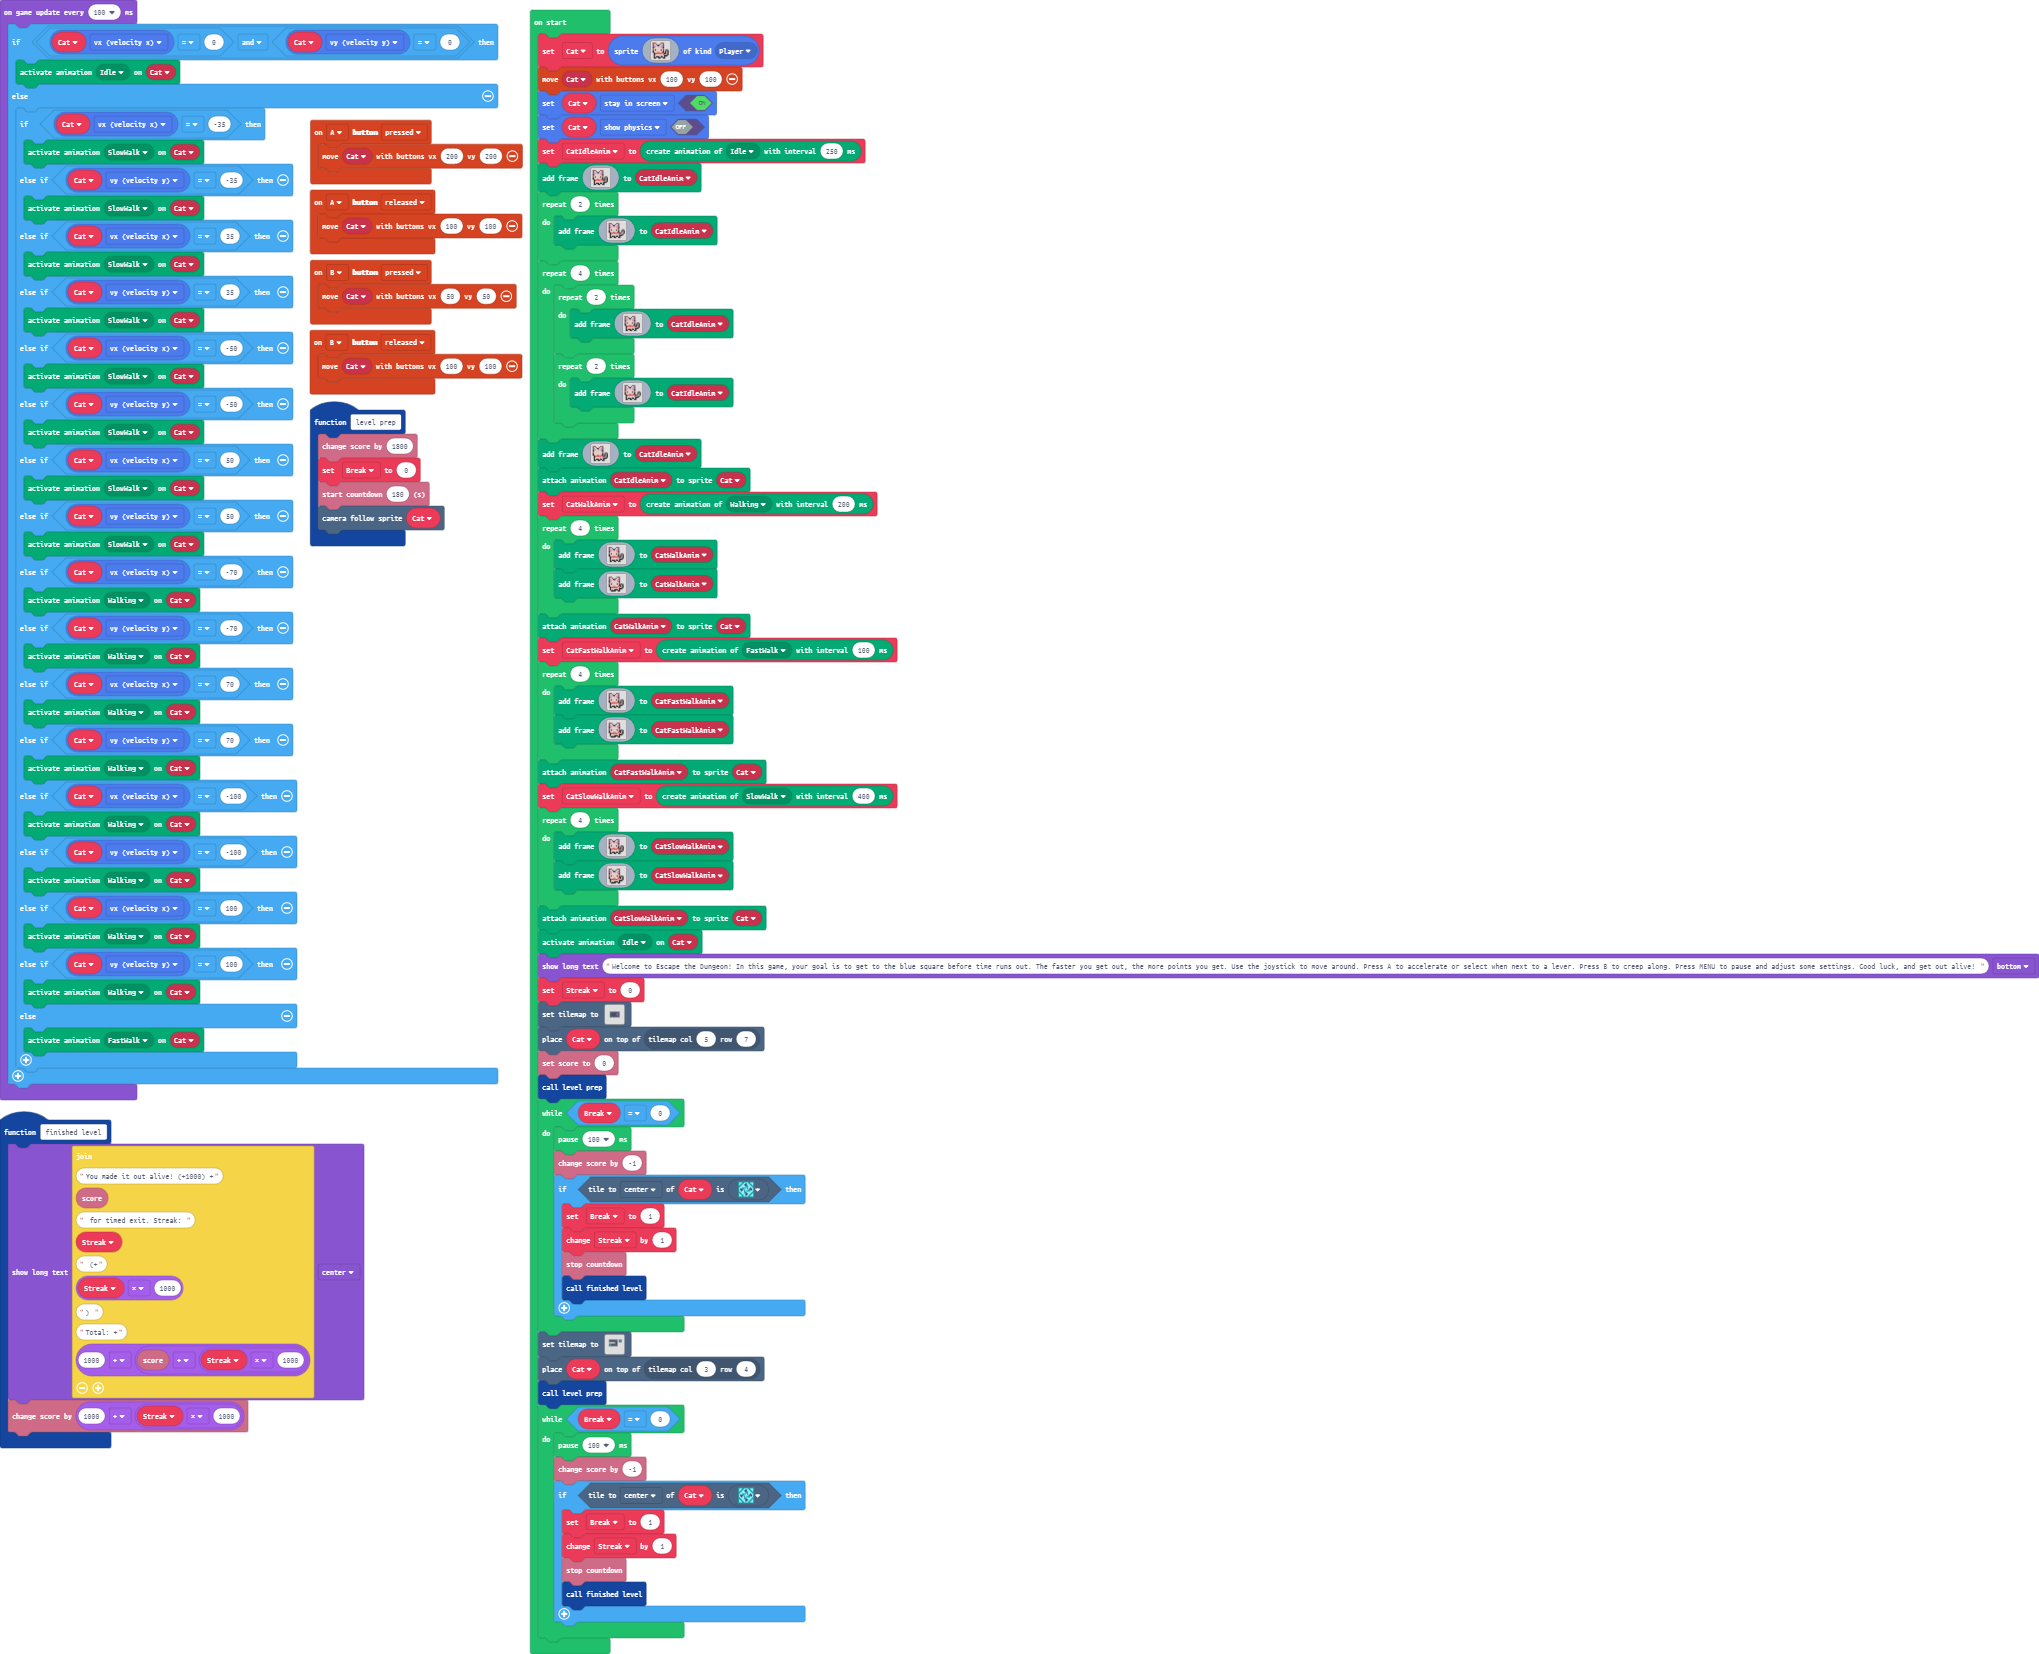
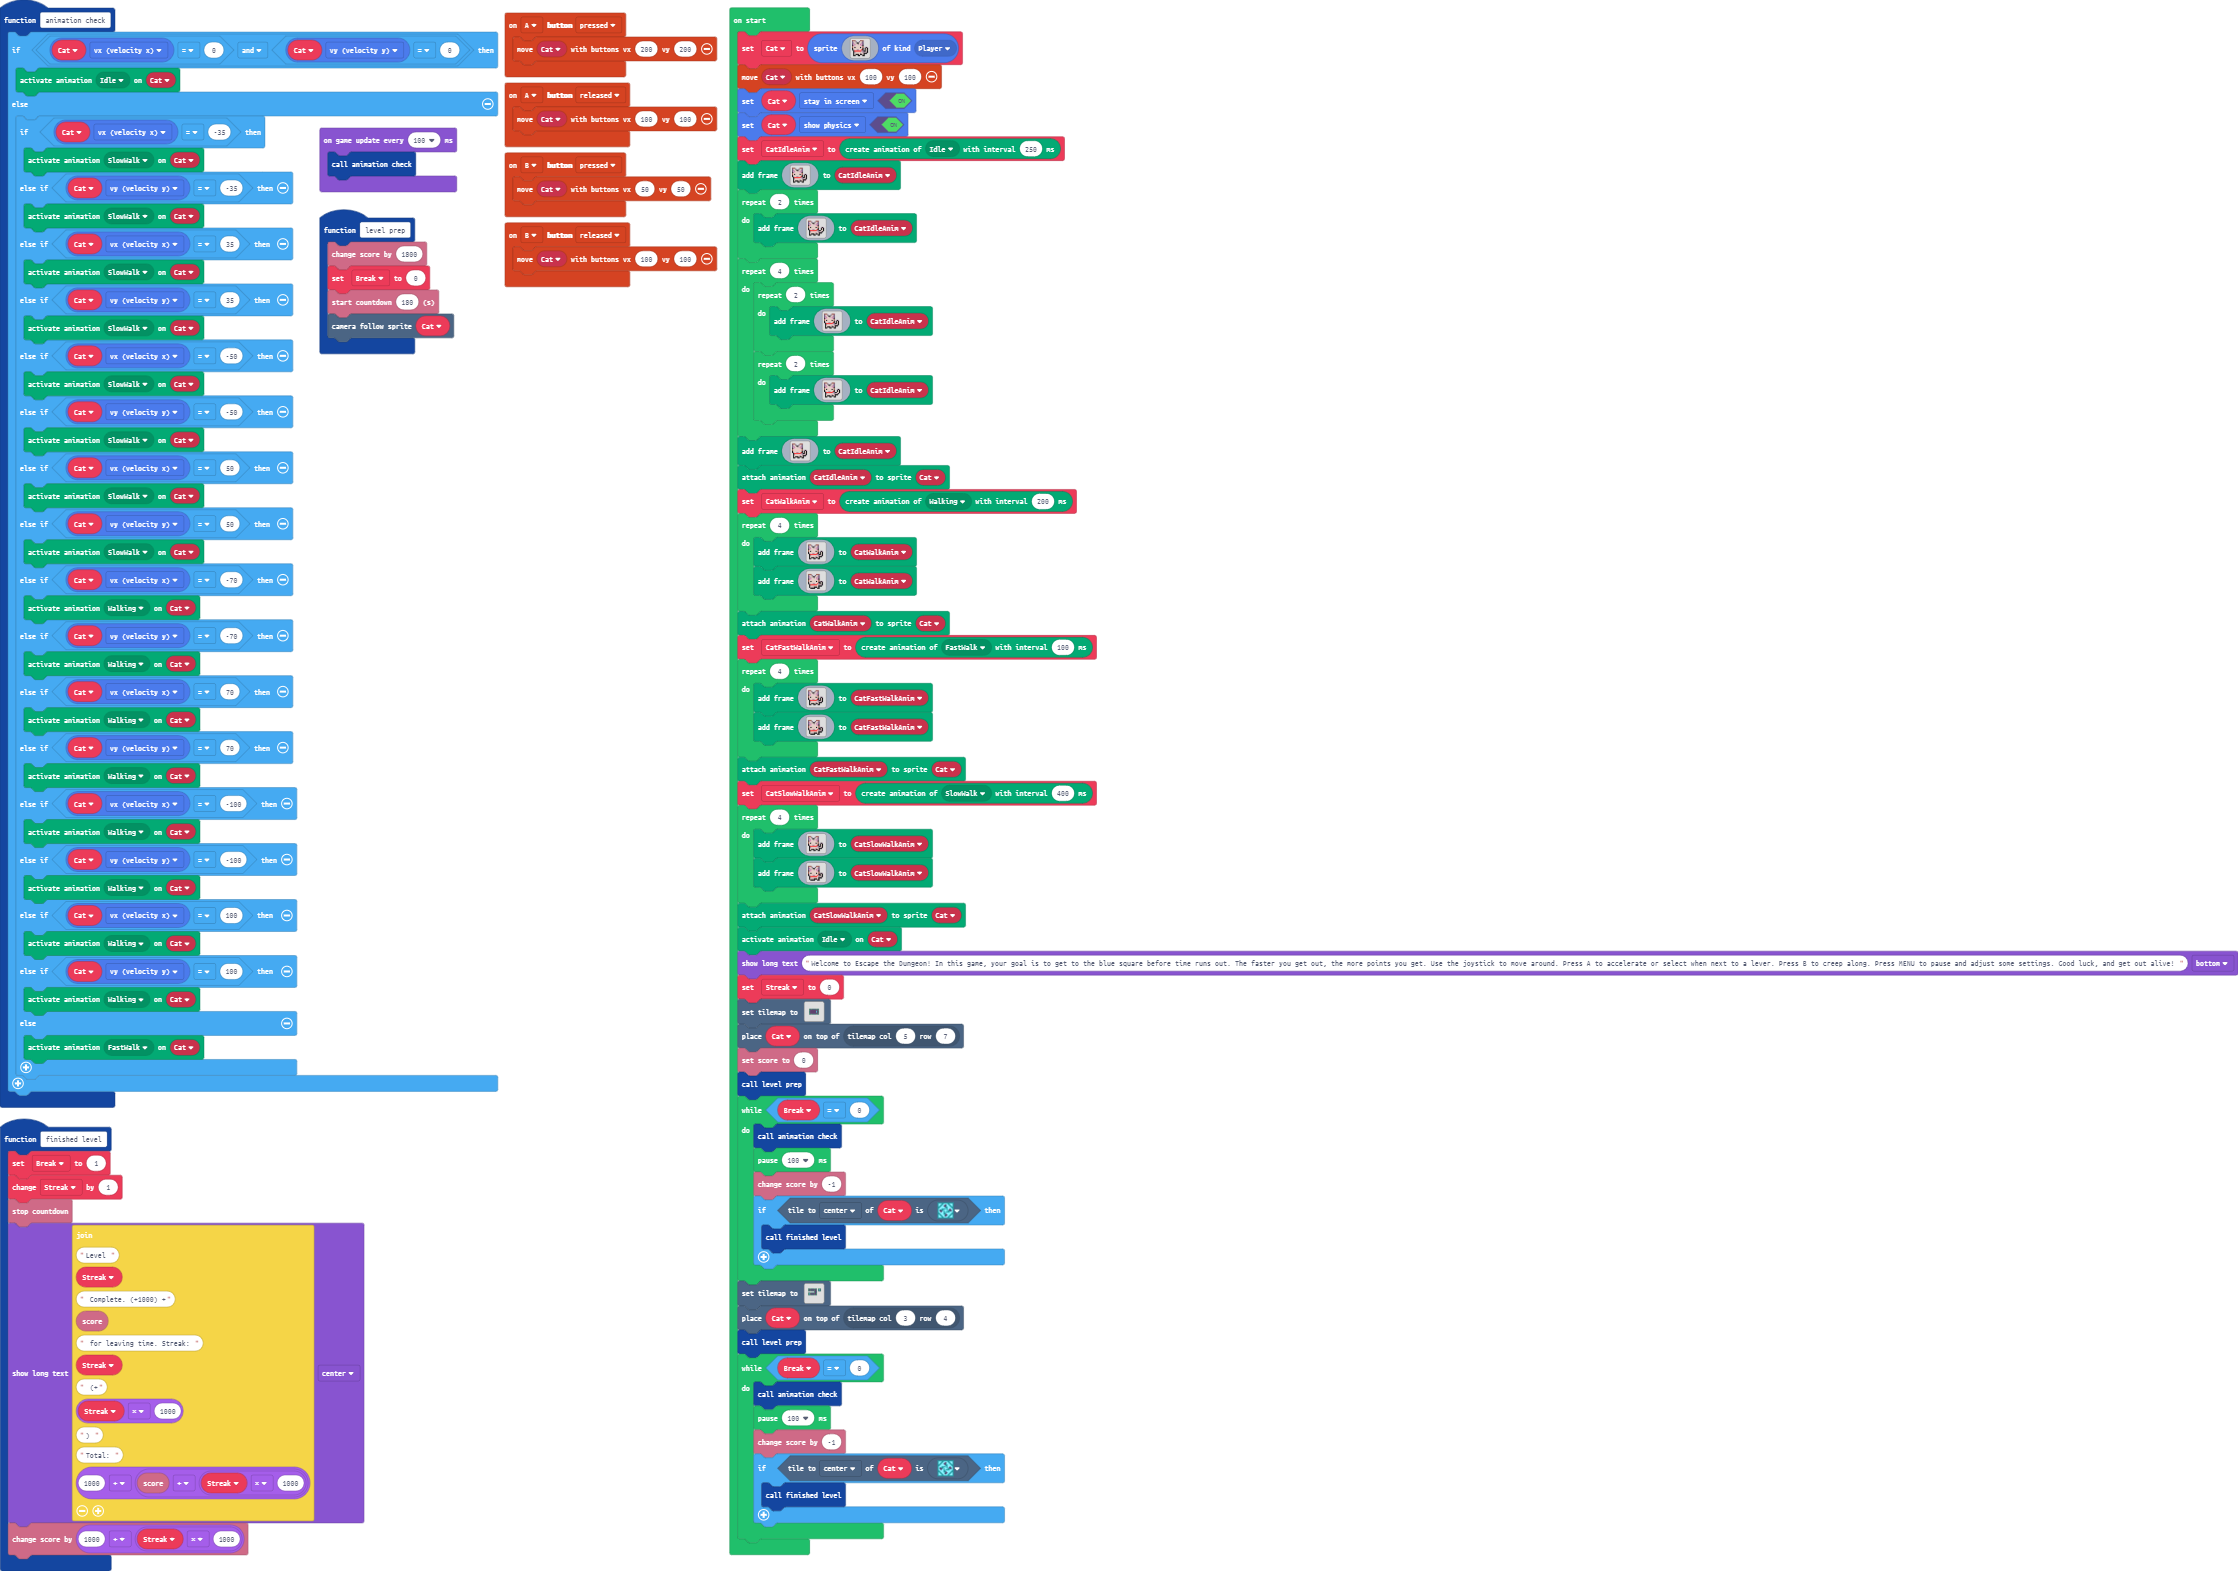
Update main.blocks, main.ts

Changed region(s): [[0.0, 0.0, 1.0, 1.0]]

diff --git a/main.ts b/main.ts
@@ -26,15 +26,52 @@ namespace myTiles {
 . . . . . . . . . . . . . . . . 
 `
 }
+function animation_check () {
+    if (Cat.vx == 0 && Cat.vy == 0) {
+        animation.setAction(Cat, ActionKind.Idle)
+    } else {
+        if (Cat.vx == -35) {
+            animation.setAction(Cat, ActionKind.SlowWalk)
+        } else if (Cat.vy == -35) {
+            animation.setAction(Cat, ActionKind.SlowWalk)
+        } else if (Cat.vx == 35) {
+            animation.setAction(Cat, ActionKind.SlowWalk)
+        } else if (Cat.vy == 35) {
+            animation.setAction(Cat, ActionKind.SlowWalk)
+        } else if (Cat.vx == -50) {
+            animation.setAction(Cat, ActionKind.SlowWalk)
+        } else if (Cat.vy == -50) {
+            animation.setAction(Cat, ActionKind.SlowWalk)
+        } else if (Cat.vx == 50) {
+            animation.setAction(Cat, ActionKind.SlowWalk)
+        } else if (Cat.vy == 50) {
+            animation.setAction(Cat, ActionKind.SlowWalk)
+        } else if (Cat.vx == -70) {
+            animation.setAction(Cat, ActionKind.Walking)
+        } else if (Cat.vy == -70) {
+            animation.setAction(Cat, ActionKind.Walking)
+        } else if (Cat.vx == 70) {
+            animation.setAction(Cat, ActionKind.Walking)
+        } else if (Cat.vy == 70) {
+            animation.setAction(Cat, ActionKind.Walking)
+        } else if (Cat.vx == -100) {
+            animation.setAction(Cat, ActionKind.Walking)
+        } else if (Cat.vy == -100) {
+            animation.setAction(Cat, ActionKind.Walking)
+        } else if (Cat.vx == 100) {
+            animation.setAction(Cat, ActionKind.Walking)
+        } else if (Cat.vy == 100) {
+            animation.setAction(Cat, ActionKind.Walking)
+        } else {
+            animation.setAction(Cat, ActionKind.FastWalk)
+        }
+    }
+}
 function level_prep () {
     info.changeScoreBy(1800)
     Break = 0
     info.startCountdown(180)
     scene.cameraFollowSprite(Cat)
-}
-function finished_level () {
-    game.showLongText("You made it out alive! (+1000) +" + info.score() + " for timed exit. Streak: " + Streak + " (+" + Streak * 1000 + ") " + "Total: +" + (1000 + (info.score() + Streak * 1000)), DialogLayout.Center)
-    info.changeScoreBy(1000 + Streak * 1000)
 }
 controller.B.onEvent(ControllerButtonEvent.Pressed, function () {
     controller.moveSprite(Cat, 50, 50)
@@ -45,6 +82,13 @@ controller.B.onEvent(ControllerButtonEvent.Released, function () {
 controller.A.onEvent(ControllerButtonEvent.Pressed, function () {
     controller.moveSprite(Cat, 200, 200)
 })
+function finished_level () {
+    Break = 1
+    Streak += 1
+    info.stopCountdown()
+    game.showLongText("Level " + Streak + " Complete. (+1000) +" + info.score() + " for leaving time. Streak: " + Streak + " (+" + Streak * 1000 + ") " + "Total: " + (1000 + (info.score() + Streak * 1000)), DialogLayout.Center)
+    info.changeScoreBy(1000 + Streak * 1000)
+}
 controller.A.onEvent(ControllerButtonEvent.Released, function () {
     controller.moveSprite(Cat, 100, 100)
 })
@@ -69,7 +113,7 @@ f b d d b b d d 2 f . f d f
 `, SpriteKind.Player)
 controller.moveSprite(Cat, 100, 100)
 Cat.setFlag(SpriteFlag.StayInScreen, true)
-Cat.setFlag(SpriteFlag.ShowPhysics, false)
+Cat.setFlag(SpriteFlag.ShowPhysics, true)
 let CatIdleAnim = animation.createAnimation(ActionKind.Idle, 250)
 CatIdleAnim.addAnimationFrame(img`
 e e e . . . . e e e . . . . . 
@@ -298,12 +342,10 @@ tiles.placeOnTile(Cat, tiles.getTileLocation(5, 7))
 info.setScore(0)
 level_prep()
 while (Break == 0) {
+    animation_check()
     pause(100)
     info.changeScoreBy(-1)
     if (Cat.tileKindAt(TileDirection.Center, sprites.dungeon.collectibleInsignia)) {
-        Break = 1
-        Streak += 1
-        info.stopCountdown()
         finished_level()
     }
 }
@@ -333,53 +375,13 @@ tiles.setTilemap(tiles.createTilemap(
 tiles.placeOnTile(Cat, tiles.getTileLocation(3, 4))
 level_prep()
 while (Break == 0) {
+    animation_check()
     pause(100)
     info.changeScoreBy(-1)
     if (Cat.tileKindAt(TileDirection.Center, sprites.dungeon.collectibleInsignia)) {
-        Break = 1
-        Streak += 1
-        info.stopCountdown()
         finished_level()
     }
 }
 game.onUpdateInterval(100, function () {
-    if (Cat.vx == 0 && Cat.vy == 0) {
-        animation.setAction(Cat, ActionKind.Idle)
-    } else {
-        if (Cat.vx == -35) {
-            animation.setAction(Cat, ActionKind.SlowWalk)
-        } else if (Cat.vy == -35) {
-            animation.setAction(Cat, ActionKind.SlowWalk)
-        } else if (Cat.vx == 35) {
-            animation.setAction(Cat, ActionKind.SlowWalk)
-        } else if (Cat.vy == 35) {
-            animation.setAction(Cat, ActionKind.SlowWalk)
-        } else if (Cat.vx == -50) {
-            animation.setAction(Cat, ActionKind.SlowWalk)
-        } else if (Cat.vy == -50) {
-            animation.setAction(Cat, ActionKind.SlowWalk)
-        } else if (Cat.vx == 50) {
-            animation.setAction(Cat, ActionKind.SlowWalk)
-        } else if (Cat.vy == 50) {
-            animation.setAction(Cat, ActionKind.SlowWalk)
-        } else if (Cat.vx == -70) {
-            animation.setAction(Cat, ActionKind.Walking)
-        } else if (Cat.vy == -70) {
-            animation.setAction(Cat, ActionKind.Walking)
-        } else if (Cat.vx == 70) {
-            animation.setAction(Cat, ActionKind.Walking)
-        } else if (Cat.vy == 70) {
-            animation.setAction(Cat, ActionKind.Walking)
-        } else if (Cat.vx == -100) {
-            animation.setAction(Cat, ActionKind.Walking)
-        } else if (Cat.vy == -100) {
-            animation.setAction(Cat, ActionKind.Walking)
-        } else if (Cat.vx == 100) {
-            animation.setAction(Cat, ActionKind.Walking)
-        } else if (Cat.vy == 100) {
-            animation.setAction(Cat, ActionKind.Walking)
-        } else {
-            animation.setAction(Cat, ActionKind.FastWalk)
-        }
-    }
+    animation_check()
 })
